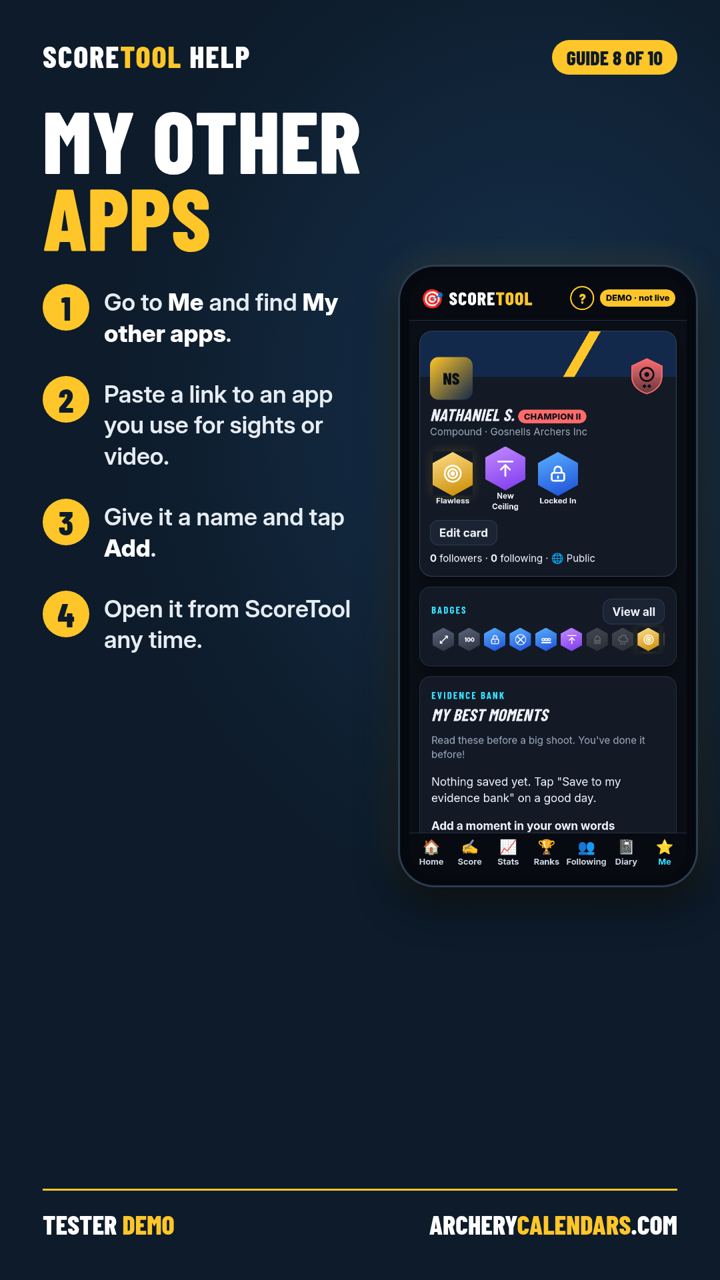
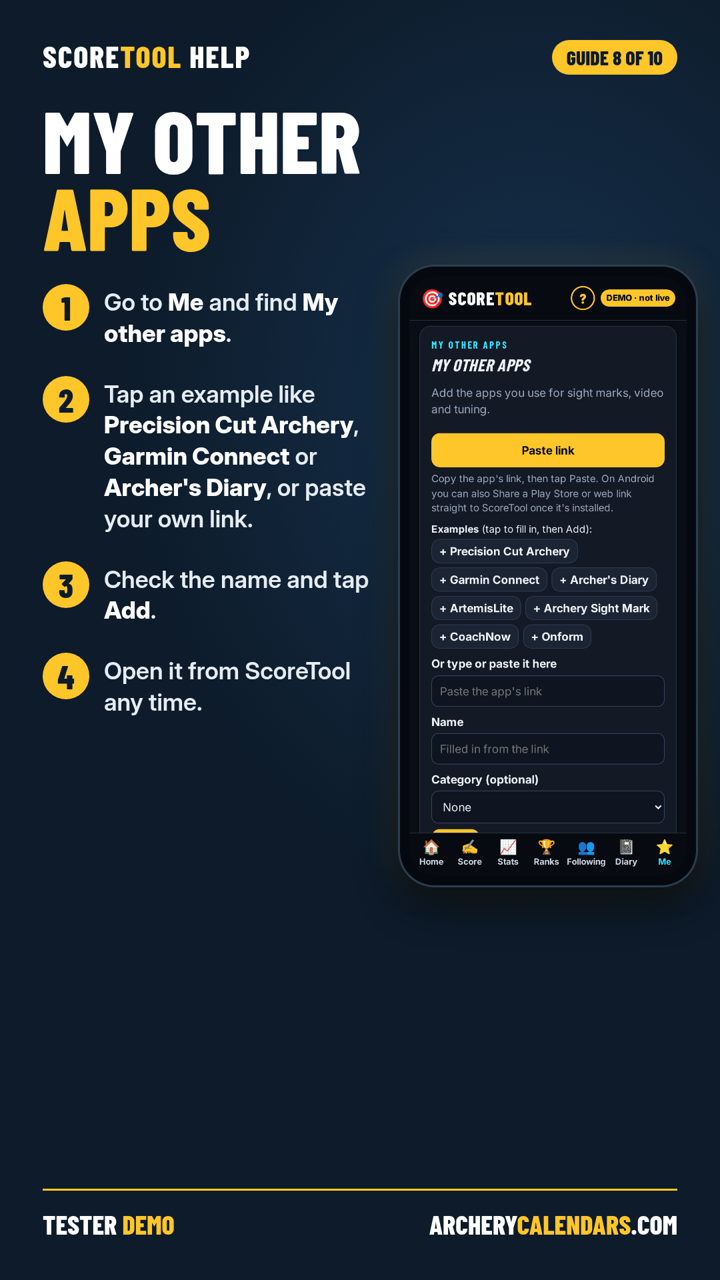
Daily goal saves separately (daily_goal); example quick-add apps in My other apps + help guide 8

Changed region(s): [[0.5806, 0.2188, 0.9472, 0.6562], [0.0611, 0.2812, 0.5194, 0.5625]]

diff --git a/app.js b/app.js
@@ -169,9 +169,9 @@ function volBadges(mm){const m=mm||dayArrows(),days=Object.keys(m).sort(),mx=Mat
  let best=0,run=0,prev=null;days.forEach(d=>{if(m[d]>=300){run=prev&&Math.round((new Date(d)-new Date(prev))/864e5)==1&&m[prev]>=300?run+1:1;best=Math.max(best,run)}prev=d});
  let wk=0;days.forEach(d=>{let t=0;for(let i=0;i<7;i++){t+=m[ld(new Date(d).getTime()-i*864e5)]||0}wk=Math.max(wk,t)});
  return[...B.daily.map(b=>[b[1],b[2],mx>=b[0],b[3]]),...B.streak.map(b=>[b[1],b[2],best>=b[0],b[3]]),...B.weekly.map(b=>[b[1],b[2],wk>=b[0],b[3]])]}
-function volCard(){const ad=(S.vol||{})[today()]||0,g=S.goal||(/logan/i.test(S.profile||'')?300:0),n=dayArrows()[today()]||0,p=g?Math.min(1,n/g):0,C=2*Math.PI*42;S._shootKey=S._shootKey||today();const nd=rot('vol',window.VOL_NUDGES)[0];
- return`<div class="card"><span class="kicker">Today's arrows</span><div class="row" style="gap:12px;align-items:center"><button id="ringbtn" aria-label="${n} arrows today${g?" of "+g:""}. Tap to edit added arrows" style="background:none;border:0;padding:0;cursor:pointer"><svg viewBox="0 0 100 100" width="110" height="110" aria-hidden="true"><circle cx="50" cy="50" r="42" fill="none" stroke="var(--line)" stroke-width="10"/><circle cx="50" cy="50" r="42" fill="none" stroke="var(--gold,#e0a800)" stroke-width="10" stroke-linecap="round" stroke-dasharray="${C*p} ${C}" transform="rotate(-90 50 50)"/><text x="50" y="50" text-anchor="middle" font-size="22" font-weight="700" fill="var(--ink)">${n}</text><text x="50" y="66" text-anchor="middle" font-size="10" fill="var(--muted)">${g?"of "+g:"arrows"}</text></svg></button>
- <div style="flex:1;min-width:0"><label class="small" for="goal" style="display:block">Daily goal (set by you or your coach): <input id="goal" type="number" min="0" max="1000" step="10" value="${g||""}" placeholder="–" style="width:70px;display:inline-block;padding:4px"> arrows a day</label><p class="small" style="margin:6px 0">Shot some without scoring? Add them:</p><div style="display:flex;flex-wrap:wrap;gap:6px">${[6,12,36,72].map(k=>`<button class="btn ghost" data-vol="${k}" style="padding:6px 10px">+${k}</button>`).join('')}<button class="btn ghost" data-vol="-6" style="padding:6px 10px" aria-label="remove 6">−6</button></div></div></div><p class="small muted" style="margin:6px 0 0">${n-ad} from rounds + ${ad} added today. Tap the number to edit.</p><div id="vedit" hidden style="margin-top:6px"><label for="vset" class="small">Arrows added today</label><div style="display:flex;gap:6px"><input id="vset" type="number" min="0" max="2000" inputmode="numeric" value="${ad}" style="flex:1"><button class="btn" id="vsave">Set</button></div></div><button class="btn ghost" id="vreset" style="margin-top:6px;padding:6px 10px">Reset today</button><p class="small muted" style="margin:8px 0 0">💡 ${nd}</p></div>`}
+function volCard(){const ad=(S.vol||{})[today()]||0,g=(S.daily_goal??S.goal)||(/logan/i.test(S.profile||'')?300:0),n=dayArrows()[today()]||0,p=g?Math.min(1,n/g):0,C=2*Math.PI*42;S._shootKey=S._shootKey||today();const nd=rot('vol',window.VOL_NUDGES)[0];
+ return`<div class="card"><span class="kicker">Today's arrows</span><div class="row" style="gap:12px;align-items:center"><button id="ringbtn" aria-label="${n} arrows today${g?" of "+g:""}. Tap to edit added arrows" style="background:none;border:0;padding:0;cursor:pointer"><svg id="volring" viewBox="0 0 100 100" width="110" height="110" aria-hidden="true"><circle cx="50" cy="50" r="42" fill="none" stroke="var(--line)" stroke-width="10"/><circle cx="50" cy="50" r="42" fill="none" stroke="var(--gold,#e0a800)" stroke-width="10" stroke-linecap="round" id="volarc" stroke-dasharray="${C*p} ${C}" transform="rotate(-90 50 50)"/><text x="50" y="50" text-anchor="middle" font-size="22" font-weight="700" fill="var(--ink)">${n}</text><text x="50" y="66" text-anchor="middle" font-size="10" fill="var(--muted)" id="volof">${g?"of "+g:"arrows"}</text></svg></button>
+ <div style="flex:1;min-width:0"><label class="small" for="goal" style="display:block">Daily goal (set by you or your coach)</label><div style="display:flex;align-items:center;gap:6px;margin-top:2px"><input id="goal" type="number" inputmode="numeric" min="0" max="1000" step="10" value="${g||""}" placeholder="–" style="width:90px;padding:8px;font-size:16px"><span class="small">arrows a day</span></div><p class="small" style="margin:6px 0">Shot some without scoring? Add them:</p><div style="display:flex;flex-wrap:wrap;gap:6px">${[6,12,36,72].map(k=>`<button class="btn ghost" data-vol="${k}" style="padding:6px 10px">+${k}</button>`).join('')}<button class="btn ghost" data-vol="-6" style="padding:6px 10px" aria-label="remove 6">−6</button></div></div></div><p class="small muted" style="margin:6px 0 0">${n-ad} from rounds + ${ad} added today. Tap the number to edit.</p><div id="vedit" hidden style="margin-top:6px"><label for="vset" class="small">Arrows added today</label><div style="display:flex;gap:6px"><input id="vset" type="number" min="0" max="2000" inputmode="numeric" value="${ad}" style="flex:1"><button class="btn" id="vsave">Set</button></div></div><button class="btn ghost" id="vreset" style="margin-top:6px;padding:6px 10px">Reset today</button><p class="small muted" style="margin:8px 0 0">💡 ${nd}</p></div>`}
 function iconRow(b,size=26){return`<div class="irow" style="position:relative"><div role="list" style="display:flex;gap:6px;overflow-x:auto;white-space:nowrap;padding:4px 2px;scrollbar-width:thin">${b.map(x=>{const nm=x[1]+(x[2]?'':' (locked)');return`<span role="listitem" tabindex="0" aria-label="${nm}" title="${nm}" data-tip="${nm}" onclick="badgeTip(this)" onkeydown="if(event.key=='Enter')badgeTip(this)" style="flex:0 0 auto;font-size:${size}px;line-height:1;cursor:pointer;${x[2]?'':'filter:grayscale(1);opacity:.35'}">${x[0]}</span>`}).join('')}</div><span class="btip" hidden style="position:absolute;z-index:5;background:#0f172a;color:#fff;font-size:12px;padding:3px 8px;border-radius:6px;white-space:nowrap;pointer-events:none"></span></div>`}
 function badgeTip(el){const w=el.closest('.irow'),t=w.querySelector('.btip'),r=el.getBoundingClientRect(),q=w.getBoundingClientRect();t.textContent=el.dataset.tip;t.hidden=false;t.style.top=(r.bottom-q.top+4)+'px';t.style.left=Math.max(0,Math.min(q.width-t.offsetWidth,r.left-q.left+r.width/2-t.offsetWidth/2))+'px';clearTimeout(w._t);w._t=setTimeout(()=>t.hidden=true,1800)}
 function shelf(){const b=[...volBadges(),...badges()];return`<div class="card"><span class="kicker">Badges shelf</span>${iconRow(b)}</div>`}
@@ -190,7 +190,7 @@ function home(){const d=done(),real=findReal(S.profile),L=latestShoot();
  $('#go').onclick=()=>nav('score');
  if($('#bank'))$('#bank').onclick=()=>{S.best.push({date:L.date,text:winsFor(W.s).map(w=>w[1]).join(' '),total:L.score,round:L.round});save();$('#bank').textContent='Saved ✓'};
 
- if($('#goal'))$('#goal').onchange=e=>{const v=Math.max(0,Math.min(1000,+e.target.value||0));S.goal=v;save();home()};if($('#ringbtn'))$('#ringbtn').onclick=()=>{const e=$('#vedit');e.hidden=!e.hidden;if(!e.hidden)$('#vset').focus()};
+ if($('#goal')){const gi=$('#goal'),upd=()=>{const v=Math.max(0,Math.min(1000,Math.round(+gi.value||0)));S.daily_goal=v;S.goal=v;save();const n=dayArrows()[today()]||0,C=2*Math.PI*42,pp=v?Math.min(1,n/v):0;$('#volarc').setAttribute('stroke-dasharray',`${C*pp} ${C}`);$('#volof').textContent=v?'of '+v:'arrows'};gi.oninput=upd;gi.onchange=upd;gi.onkeydown=e=>{if(e.key=='Enter'){e.preventDefault();gi.blur()}};gi.onclick=e=>e.stopPropagation()}if($('#ringbtn'))$('#ringbtn').onclick=()=>{const e=$('#vedit');e.hidden=!e.hidden;if(!e.hidden)$('#vset').focus()};
  if($('#vsave'))$('#vsave').onclick=()=>{S.vol=S.vol||{};S.vol[today()]=Math.max(0,Math.min(2000,Math.round(+$('#vset').value||0)));save();home()};
  if($('#vreset'))$('#vreset').onclick=()=>{if(!confirm("Reset today's added arrows?"))return;S.vol=S.vol||{};delete S.vol[today()];save();home()};app.querySelectorAll('[data-resume]').forEach(b=>b.onclick=()=>{cur=S.sessions.find(x=>x.id==b.dataset.resume);history.pushState({scoring:1},'');nav('score')});app.querySelectorAll('[data-vol]').forEach(b=>b.onclick=()=>{S.vol=S.vol||{};const t=today();S.vol[t]=Math.max(0,(S.vol[t]||0)+ +b.dataset.vol);save();home()});bindNotes()}
 

diff --git a/rewards.js b/rewards.js
@@ -212,7 +212,7 @@ function drawRecap(st,mn){const c=$('#rcv'),x=c.getContext('2d');const g=x.creat
  T.forEach(([k,v],i)=>{const cx=70+(i%2)*480,cy=380+Math.floor(i/2)*260;x.fillStyle='rgba(255,255,255,.06)';x.fillRect(cx,cy,440,220);x.fillStyle='#9aa7ba';x.font='700 36px Inter,sans-serif';x.fillText(k,cx+30,cy+60);x.fillStyle='#eef2f8';x.font='800 120px "Barlow Condensed",sans-serif';x.fillText(String(v),cx+30,cy+180)});
  x.fillStyle='#eef2f8';x.font='800 48px "Barlow Condensed",sans-serif';x.fillText('SCORE',70,1280);const w1=x.measureText('SCORE').width;x.fillStyle='#ffc629';x.fillText('TOOL',70+w1,1280);const w2=x.measureText('TOOL').width;x.fillStyle='#9aa7ba';x.font='500 30px Inter,sans-serif';x.fillText('archery calendars',90+w1+w2,1278)}
 window.EXTRA_VIEWS.recap=recapView;
-/* ---------- My other apps: archer's own links to outside apps. Stored locally. No pre-filled list, no recommendations. ---------- */
+/* ---------- My other apps: archer's own links to outside apps. Stored locally. Quick-add example chips pre-fill the form; nothing is added until the archer taps Add. ---------- */
 const APP_CATS=['Sight marks','Video','Tuning','Other'];
 function appKind(u){try{const x=new URL(u);return/apps\.apple\.com$/.test(x.hostname)?'ios':/play\.google\.com$/.test(x.hostname)?'play':'web'}catch(e){return'web'}}
 const titleCase=t=>t.replace(/[-_.]+/g,' ').replace(/\b\w/g,c=>c.toUpperCase()).trim();
@@ -221,6 +221,7 @@ function appName(u){try{const x=new URL(u),k=appKind(u);if(k=='ios'){const m=x.p
  try{const h=new URL(u).hostname.replace(/^www\.|^app\.|^m\./,'').split('.')[0];return h.charAt(0).toUpperCase()+h.slice(1)}catch(e){return''}}
 function normUrl(u){u=((u||'').match(/(https?:\/\/\S+|[\w-]+(\.[\w-]+)+\/?\S*)/)||[''])[0].replace(/[).,]+$/,'');if(u&&!/^https?:\/\//i.test(u))u='https://'+u;try{const x=new URL(u);return/^https?:$/.test(x.protocol)?x.href:''}catch(e){return''}}
 let appEdit=null;
+const APP_EXAMPLES=[['Precision Cut Archery','https://www.precisioncutarchery.com/','Sight marks'],['Garmin Connect','https://connect.garmin.com/','Other'],["Archer's Diary",'https://archersdiary.com/','Other'],['ArtemisLite','https://play.google.com/store/apps/details?id=com.vapeldoorn.artemislite','Tuning'],['Archery Sight Mark','https://play.google.com/store/apps/details?id=com.tucanadesigns.android.archerysightmark','Sight marks'],['CoachNow','https://coachnow.com/','Video'],['Onform','https://onform.com/','Video']];
 const STORE_ICON={ios:'<svg width="20" height="20" viewBox="0 0 24 24" fill="currentColor" aria-label="App Store"><path d="M16.4 12.6c0-2.4 2-3.5 2-3.6-1.1-1.6-2.8-1.8-3.4-1.8-1.4-.2-2.8.8-3.5.8-.7 0-1.9-.8-3-.8-1.6 0-3 .9-3.8 2.3-1.6 2.8-.4 7 1.2 9.2.8 1.1 1.7 2.3 2.9 2.3 1.2 0 1.6-.7 3-.7s1.8.7 3 .7c1.3 0 2.1-1.1 2.8-2.2.9-1.3 1.3-2.5 1.3-2.6 0 0-2.5-1-2.5-3.6zM14.1 5.5c.6-.8 1.1-1.9 1-3-.9 0-2.1.6-2.7 1.4-.6.7-1.1 1.8-1 2.9 1 .1 2.1-.5 2.7-1.3z"/></svg>',play:'<svg width="20" height="20" viewBox="0 0 24 24" fill="currentColor" aria-label="Google Play"><path d="M4 2.5v19l10-9.5zM15.5 13.4l2.6 2.5-11 6.2zM15.5 10.6 7.1 1.9l11 6.2zM19.4 9l2.1 1.2c.8.5.8 1.2 0 1.6L19.4 13l-2.7-2.5z"/></svg>'};
 function appIcon(a){const k=appKind(a.url);if(STORE_ICON[k])return`<span style="display:inline-flex;width:28px;justify-content:center">${STORE_ICON[k]}</span>`;let o='';try{o=new URL(a.url).origin}catch(e){}return`<img src="${esc(o)}/favicon.ico" alt="" width="20" height="20" style="margin:0 4px;vertical-align:-4px;border-radius:4px" onerror="this.style.visibility='hidden'">`}
 /* Sync-ready record (matches a future user_apps table: id uuid, user_id, url, name, category, kind, created_at, updated_at, deleted). */
@@ -231,6 +232,7 @@ function otherAppsCard(){const L=S.apps=S.apps||[],e=appEdit!=null?L[appEdit]:nu
  return`<div class="card" id="oapps"><span class="kicker">My other apps</span><h2>My other apps</h2>
  ${L.length?L.map((a,i)=>`<div class="list-item row"><span style="min-width:0">${appIcon(a)}<a href="${esc(a.url)}" target="_blank" rel="noopener noreferrer"><b>${esc(a.name)}</b> ↗</a>${a.cat?` <span class="pill t-none">${esc(a.cat)}</span>`:''}<br><span class="small muted" style="word-break:break-all">${esc(a.url)}</span></span><span style="flex:0 0 auto"><button class="btn ghost" data-ae="${i}" style="padding:4px 10px;min-height:34px">Edit</button> <button class="btn ghost" data-ad="${i}" style="padding:4px 10px;min-height:34px">Delete</button></span></div>`).join(''):'<p class="muted">Add the apps you use for sight marks, video and tuning.</p>'}
  ${e?'':`<button class="btn full" id="apaste" style="margin-top:6px">Paste link</button><p class="small muted" style="margin:6px 0 0">${isIOS()?'Copy the app\'s link (in the App Store tap Share, then Copy Link), then tap Paste.':'Copy the app\'s link, then tap Paste. On Android you can also Share a Play Store or web link straight to ScoreTool once it\'s installed.'}</p>`}
+ ${e?'':`<p class="small" style="margin:10px 0 4px"><b>Examples</b> (tap to fill in, then Add):</p><div style="display:flex;flex-wrap:wrap;gap:6px">${APP_EXAMPLES.map((x,i)=>`<button class="btn ghost" data-aex="${i}" style="padding:6px 10px;min-height:34px">+ ${esc(x[0])}</button>`).join('')}</div>`}
  <label for="au">${e?'Edit link':'Or type or paste it here'}</label><input id="au" type="url" inputmode="url" placeholder="Paste the app's link" value="${e?esc(e.url):''}">
  <label for="an2">Name</label><input id="an2" placeholder="Filled in from the link" value="${e?esc(e.name):''}">
  <label for="ac2">Category (optional)</label><select id="ac2"><option value="">None</option>${APP_CATS.map(c=>`<option ${e&&e.cat==c?'selected':''}>${c}</option>`).join('')}</select>
@@ -243,6 +245,7 @@ function bindOtherApps(){if(!$('#oapps'))return;const L=S.apps,re=()=>{const c=$
  $('#au').oninput=()=>{if(!$('#an2').dataset.t)$('#an2').value=appName(normUrl($('#au').value))};$('#an2').oninput=()=>$('#an2').dataset.t=1;
  $('#asave').onclick=()=>{const u=normUrl($('#au').value);if(!u){$('#aerr').textContent='That link doesn\'t look right.';return}
   const a=appRec({url:u,name:$('#an2').value.trim()||appName(u)||u,cat:$('#ac2').value},appEdit!=null?L[appEdit]:null);if(appEdit!=null)L[appEdit]=a;else L.push(a);appEdit=null;save();re()};
+ document.querySelectorAll('[data-aex]').forEach(b=>b.onclick=()=>{const x=APP_EXAMPLES[+b.dataset.aex];$('#au').value=x[1];$('#an2').value=x[0];$('#an2').dataset.t=1;$('#ac2').value=x[2];$('#aerr').textContent='';$('#asave').scrollIntoView({block:'center'})});
  if($('#acancel'))$('#acancel').onclick=()=>{appEdit=null;re()};
  document.querySelectorAll('[data-ae]').forEach(b=>b.onclick=()=>{appEdit=+b.dataset.ae;re()});
  document.querySelectorAll('[data-ad]').forEach(b=>b.onclick=()=>{if(!confirm('Delete this link?'))return;L.splice(+b.dataset.ad,1);appEdit=null;save();re()})}

diff --git a/help.js b/help.js
@@ -1,16 +1,16 @@
 /* Help (?) posters + Send a suggestion (FormSubmit -> nfshold@gmail.com, same pattern as archerycalendars.com forms). */
 const HELP_POSTERS=[['01-getting-started','Getting started & picking your tester'],['02-scoring','Scoring a round: plot arrows, zoom'],['03-practice-goal','Practice arrows & daily goal'],
  ['04-stats','Stats: pick a round'],['05-ranks','Ranks, badges, XP & fair play'],['06-squads','Squads: join with a code, cheers'],['07-following','Following other archers'],
- ['08-other-apps','My other apps'],['09-diary','Diary'],['10-suggestion','Sending a suggestion']];
+ ['08-other-apps','My other apps: Precision Cut, Garmin & more'],['09-diary','Diary'],['10-suggestion','Sending a suggestion']];
 const FORM_URL='https://formsubmit.co/nfshold@gmail.com';
 let lastTab='home';
 (function(){const top=document.querySelector('.top');if(top){const b=document.createElement('button');b.className='help-btn';b.setAttribute('aria-label','Help');b.textContent='?';b.onclick=()=>nav('help');top.appendChild(b)}
  const o=window.nav;window.nav=function(v){if(v!='help'&&v!='suggest')lastTab=v;return o(v)}})();
 function helpCards(){return`<div class="card"><span class="kicker">Help</span><h2>How to use ScoreTool</h2><p class="small">Quick picture guides for every part of the app.</p><button class="btn" onclick="nav('help')">Open Help</button> <button class="btn ghost" onclick="nav('suggest')">Send a suggestion</button></div>`}
 function helpView(){app.innerHTML=`<div class="card dark"><span class="kicker">Help</span><h1>How to use ScoreTool</h1><p>Tap a guide to see it full screen.</p></div>
-<div class="poster-grid">${HELP_POSTERS.map(([f,t])=>`<button class="poster" data-f="${f}"><img loading="lazy" src="help/${f}.png?v=20261016b" alt="${t}"><span>${t}</span></button>`).join('')}</div>
+<div class="poster-grid">${HELP_POSTERS.map(([f,t])=>`<button class="poster" data-f="${f}"><img loading="lazy" src="help/${f}.png?v=20261016c" alt="${t}"><span>${t}</span></button>`).join('')}</div>
 <div class="card"><h2>Got an idea or found a bug?</h2><button class="btn full" onclick="nav('suggest')">Send a suggestion</button></div>`;
- app.querySelectorAll('.poster').forEach(b=>b.onclick=()=>{const d=document.createElement('div');d.className='poster-full';d.innerHTML=`<img src="help/${b.dataset.f}.png?v=20261016b" alt=""><button class="btn" aria-label="Close">Close ✕</button>`;d.onclick=()=>d.remove();document.body.appendChild(d)})}
+ app.querySelectorAll('.poster').forEach(b=>b.onclick=()=>{const d=document.createElement('div');d.className='poster-full';d.innerHTML=`<img src="help/${b.dataset.f}.png?v=20261016c" alt=""><button class="btn" aria-label="Close">Close ✕</button>`;d.onclick=()=>d.remove();document.body.appendChild(d)})}
 function suggestView(){const who=TESTER?TESTER.name:'',tabs=['Home','Score','Stats','Ranks','Following','Diary','Me','Squads','Help','Other'],cur=(lastTab||'home');
  app.innerHTML=`<div class="card"><span class="kicker">Testers</span><h1>Send a suggestion</h1><p class="small muted">Goes straight to Nathe by email.</p>
  <form id="sgForm" method="POST" enctype="multipart/form-data" action="${FORM_URL}" target="sgFrame">

diff --git a/index.html b/index.html
@@ -4,4 +4,4 @@
 <main id="app" aria-live="polite"></main><p class="small muted" style="text-align:center;margin:8px 16px 90px">This app tracks and celebrates your shooting. Always follow your coach's advice.</p>
 <nav class="tabs" id="tabs" aria-label="Sections">
 <button data-v="home">🏠<span>Home</span></button><button data-v="score">✍<span>Score</span></button><button data-v="stats">📈<span>Stats</span></button><button data-v="rewards">🏆<span>Ranks</span></button><button data-v="follow">👥<span>Following</span></button><button data-v="diary">📓<span>Diary</span></button><button data-v="me">⭐<span>Me</span></button></nav>
-<script src="coach_messages.js"></script><script src="ratings.js"></script><script src="rankings.js"></script><script src="tags.js?v=202610162009"></script><script src="testers.js?v=202610162009"></script><script src="app.js?v=202610162009"></script><script src="diary.js"></script><script src="gear.js"></script><script src="rewards.js"></script><script src="squads.js"></script><script src="fairplay.js"></script><script src="follow.js"></script><script src="help.js?v=202610162009"></script><script src="analytics.js?v=202610162009"></script><script src="update.js?v=202610162009"></script></body></html>
+<script src="coach_messages.js"></script><script src="ratings.js"></script><script src="rankings.js"></script><script src="tags.js?v=202610162046"></script><script src="testers.js?v=202610162046"></script><script src="app.js?v=202610162046"></script><script src="diary.js"></script><script src="gear.js"></script><script src="rewards.js"></script><script src="squads.js"></script><script src="fairplay.js"></script><script src="follow.js"></script><script src="help.js?v=202610162046"></script><script src="analytics.js?v=202610162046"></script><script src="update.js?v=202610162046"></script></body></html>

diff --git a/sw.js b/sw.js
@@ -1,2 +1,2 @@
-/* Minimal pass-through service worker so Android can install the app and use the share target. No caching. v2026-10-16-2009-practice-edit */
+/* Minimal pass-through service worker so Android can install the app and use the share target. No caching. v2026-10-16-2046-goal-apps */
 self.addEventListener('install',()=>self.skipWaiting());self.addEventListener('activate',e=>e.waitUntil(self.clients.claim()));self.addEventListener('fetch',()=>{});self.addEventListener('message',e=>{if(e.data&&e.data.type=='SKIP_WAITING')self.skipWaiting()});
